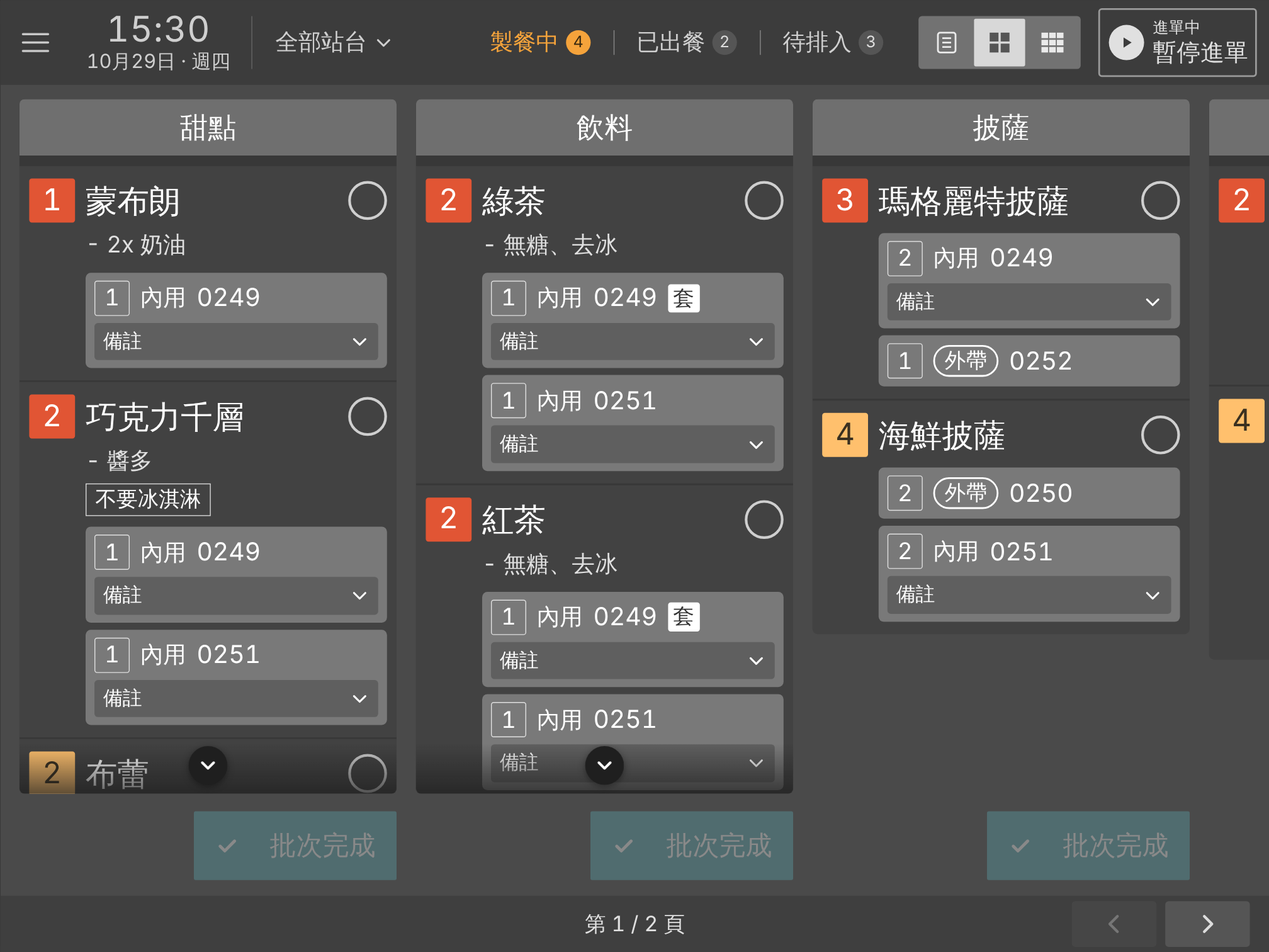
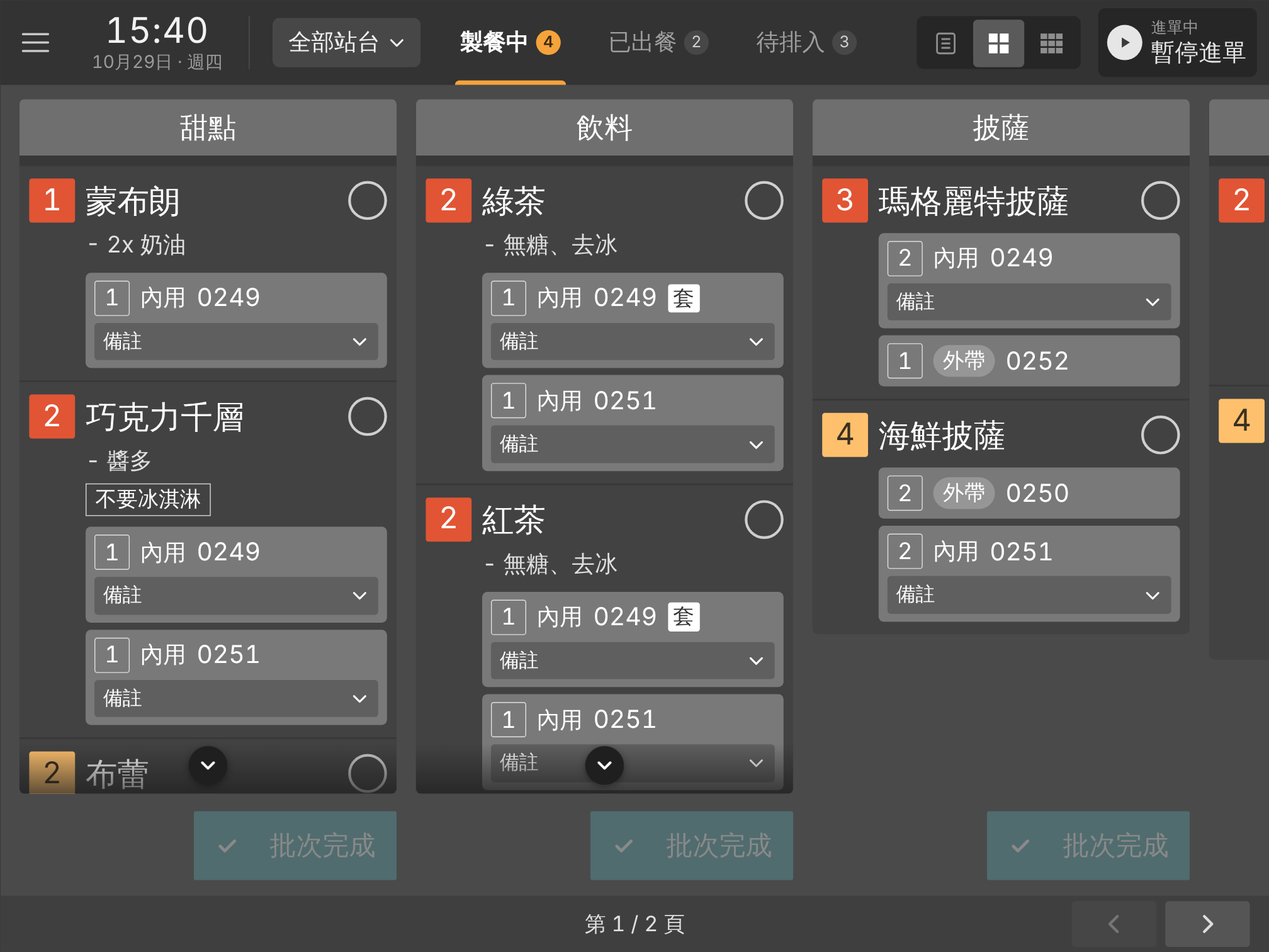
KDS: drop the cancelled-item hint; refresh every KDS screen (case screenshots, case hero photo, work-list cover) from the latest demo
Claude-Session: https://claude.ai/code/session_01NDe3p8GQ2HZ5WF8ct1RAfY

diff --git a/script.js b/script.js
@@ -11,7 +11,7 @@ function updateLanguageControls(){const toggle=document.querySelector('#language
 document.querySelector('#language-toggle')?.addEventListener('click',()=>setPortfolioLanguage(isEnglish()?'zh':'en'));
 const figmaURL='https://www.figma.com/design/S2sh6gtlIJ3JtDM7i3MEiN/portfolio?node-id=1654-18351';
 const repoURL='https://github.com/chi861008/researved-system';
-const visual=(name)=>name==='schedule'?'<div class="work-visual visual-schedule"><div class="arrow-circle" aria-hidden="true">↗</div><div class="schedule-mock"><div class="schedule-top"><strong>Weekly schedule</strong><span>October / 2026　↗</span></div><div class="calendar-week">'+['MON','TUE','WED','THU','FRI','SAT','SUN'].map((d,i)=>'<div class="calendar-day"><b>'+d+'</b>'+(i===0||i===2||i===4?'<span class="calendar-pill">Pilates 10:00</span>':'')+(i===1||i===3?'<span class="calendar-pill orange-pill">Private 14:00</span>':'')+'</div>').join('')+'</div></div></div>':name==='kiosk'?'<div class="work-visual visual-kiosk kiosk-image-cover"><img src="./kiosk-cover.png" alt="KIOSK 自助點餐介面與付款引導的設計畫面拼貼"><div class="arrow-circle" aria-hidden="true">↗</div></div>':'<div class="work-visual visual-kds kds-image-cover"><img src="./kds-cover.png" alt="KDS 個人概念設計封面：深色廚房訂單與分類畫面的介面拼貼"><div class="arrow-circle" aria-hidden="true">↗</div></div>';
+const visual=(name)=>name==='schedule'?'<div class="work-visual visual-schedule"><div class="arrow-circle" aria-hidden="true">↗</div><div class="schedule-mock"><div class="schedule-top"><strong>Weekly schedule</strong><span>October / 2026　↗</span></div><div class="calendar-week">'+['MON','TUE','WED','THU','FRI','SAT','SUN'].map((d,i)=>'<div class="calendar-day"><b>'+d+'</b>'+(i===0||i===2||i===4?'<span class="calendar-pill">Pilates 10:00</span>':'')+(i===1||i===3?'<span class="calendar-pill orange-pill">Private 14:00</span>':'')+'</div>').join('')+'</div></div></div>':name==='kiosk'?'<div class="work-visual visual-kiosk kiosk-image-cover"><img src="./kiosk-cover.png" alt="KIOSK 自助點餐介面與付款引導的設計畫面拼貼"><div class="arrow-circle" aria-hidden="true">↗</div></div>':'<div class="work-visual visual-kds kds-image-cover"><img src="./kds-cover.png?v=2" alt="KDS 個人概念設計封面：深色廚房訂單與分類畫面的介面拼貼"><div class="arrow-circle" aria-hidden="true">↗</div></div>';
 const card=p=>'<a class="work-card" href="#/case/'+p.id+'">'+visual(p.visual)+'<div class="work-info"><div><h3>'+p.title+'</h3><p>'+p.zh+'<br>'+p.type+'</p></div><div class="project-number">'+p.number+' / 03</div></div></a>';
 function home(){return '<section class="identity-hero"><div class="identity-wrap"><h1 class="visually-hidden">Yuan Chi — Product Manager &amp; Product Designer</h1><div class="identity-caption">PORTFOLIO / 2026</div><div class="identity-title"><span>Yuan</span><figure class="identity-photo"><img src="./yuan-chi-expressive-hero.png" alt="Yuan Chi 俏皮的黑白個人照片" fetchpriority="high" loading="eager" decoding="async"><i class="corner c1"></i><i class="corner c2"></i><i class="corner c3"></i><i class="corner c4"></i></figure><span>Chi</span></div><div class="identity-details"><p>Product Manager ×<br>Product Designer</p><p>Research / Strategy / Design<br>From insight to working product</p><p>Based in Taiwan<br><a href="mailto:chi861008@gmail.com">chi861008@gmail.com ↗</a></p></div></div></section><section class="intro-portrait wrap" id="about"><div class="intro-copy"><div class="eyebrow">ABOUT ME</div><h2>Hi<span class="orange">.</span></h2><p>我是產品設計師，正往產品經理發展。擅長把模糊的業務問題拆成可以驗證的假設，再用研究、設計與可運作的原型，幫團隊做出取捨。</p><p>過去曾參與餐飲 POS、自助點餐機、雲端報表及廚房顯示系統等產品。工作之外，我也喜歡從生活中的真實問題發起 Side Project，讓研究、設計與開發不只停留在工作中，也能實際應用於日常生活。</p><a class="intro-link" href="#/about">More about me <span>↗</span></a></div><div class="intro-visual"><img src="./yuan-chi-about-crossleg-slim.svg" alt="Yuan Chi 個人黑白形象照"><div class="orbit-word">DESIGN · RESEARCH · PRODUCT · BUILD ·</div></div></section><section class="section-space wrap" id="work"><div class="section-head selected-head"><div><div class="eyebrow">SELECTED WORK / 2026</div><h2>Works record<span class="orange">.</span></h2></div></div><div class="work-grid identity-works">'+projects.map(card).join('')+'</div></section><section class="dark-band"><div class="wrap"><div class="eyebrow">THE WAY I THINK</div><h2>Fall in love with the problem, not the solution.</h2><a href="mailto:chi861008@gmail.com">Let’s connect ↗</a></div></section>';}
 function aboutSection(){return '<section class="section-space wrap" id="about"><div class="about-mini"><div><div class="eyebrow">02 / About</div><h2>Curious by nature.<br>Builder by choice.</h2></div><div><p>我的背景跨越工業設計、使用者研究與數位產品設計，做過餐飲 POS、自助點餐機與廚房顯示系統。現在我往產品經理發展：定義問題、排定優先順序、用最小成本驗證，必要時用 AI 輔助開發自己把原型做出來。</p><p>我喜歡定義問題、串聯不同線索、提出解法，以及把複雜的邏輯整理得讓人容易理解。</p><div class="skills"><span class="chip">Product Discovery</span><span class="chip">Prioritization</span><span class="chip">UX Research</span><span class="chip">Product Design</span><span class="chip">Prototyping</span><span class="chip">AI-assisted Development</span></div></div></div></section>';}
@@ -107,11 +107,11 @@ function schedulingBody(){
   '<div class="schedule-turn"><span>KEY TAKEAWAY / 核心反思</span><p><strong>從證明自己能做出產品，到學會判斷什麼值得先做。</strong>這次獨立開發讓我理解：做出功能，不等於已找到值得解決的產品問題。未來我會先確認需求的共通性、最需要驗證的假設，以及使用者的轉換成本，再決定投入多少開發資源。</p></div>');
 }
 function kdsBody(){
- return sec("overview","01 / CONTEXT","從工程師 Demo 到可交付的 KDS：先釐清廚房真正需要什麼","\n<div class=\"role-split\"><div><span>TEAM PROJECT / 團隊專案（02–04）</span><strong>我負責研究與 UI 檢視</strong><p>整理歷史研究與客戶回饋、競品分析、LA PASTA 現場訪談；提出 5 項 UI 建議，全數被採納。正式介面由另一位 UX 主責。</p></div><div><span>PERSONAL EXTENSION / 個人延伸（05）</span><strong>我獨立設計的品項視角</strong><p>在專案之外，把「批次製餐」的研究洞察延伸成訂單／品項雙視角與批次規則，並做成可操作的展示。</p></div></div>\n<p>因為有客戶表達購買 KDS 的意願，公司決定將工程師依自身理解開發的初步 Demo 推進為正式產品。原型已可呈現並處理訂單，但仍有<strong>長餐名截斷、跑馬燈閱讀負擔、誤完成後難以找回、油污環境觸控不便</strong>等問題。因此需要先釐清第一階段的功能範圍與真實廚房流程，支持團隊把 Demo 轉成可交付的產品。</p>\n<figure class=\"scenario-figure kds-case-scenario\"><img loading=\"lazy\" src=\"./kds-case-hero.png\" alt=\"KDS 廚房作業情境示意\"><figcaption>廚房使用情境示意。</figcaption></figure>\n")+
+ return sec("overview","01 / CONTEXT","從工程師 Demo 到可交付的 KDS：先釐清廚房真正需要什麼","\n<div class=\"role-split\"><div><span>TEAM PROJECT / 團隊專案（02–04）</span><strong>我負責研究與 UI 檢視</strong><p>整理歷史研究與客戶回饋、競品分析、LA PASTA 現場訪談；提出 5 項 UI 建議，全數被採納。正式介面由另一位 UX 主責。</p></div><div><span>PERSONAL EXTENSION / 個人延伸（05）</span><strong>我獨立設計的品項視角</strong><p>在專案之外，把「批次製餐」的研究洞察延伸成訂單／品項雙視角與批次規則，並做成可操作的展示。</p></div></div>\n<p>因為有客戶表達購買 KDS 的意願，公司決定將工程師依自身理解開發的初步 Demo 推進為正式產品。原型已可呈現並處理訂單，但仍有<strong>長餐名截斷、跑馬燈閱讀負擔、誤完成後難以找回、油污環境觸控不便</strong>等問題。因此需要先釐清第一階段的功能範圍與真實廚房流程，支持團隊把 Demo 轉成可交付的產品。</p>\n<figure class=\"scenario-figure kds-case-scenario\"><img loading=\"lazy\" src=\"./kds-case-hero.png?v=2\" alt=\"KDS 廚房作業情境示意\"><figcaption>廚房使用情境示意。</figcaption></figure>\n")+
 sec("research","02 / DISCOVERY","有限樣本下，如何做出有依據的下一版 KDS 設計決策？","\n<p>為回答這個挑戰，我結合<strong>第一代使用者回饋、歷史研究資料、競品比較與現場觀察</strong>，從不同來源交叉理解製餐工作與功能需求。只有 LA PASTA 一家店願意接受實地訪談，所以現場資料主要用來補充作業脈絡。</p>\n<p class=\"kds-research-method-summary\"><strong>研究來源：</strong>第一代客戶回饋與介面走查、歷史訪談和廚房單、競品比較，以及 LA PASTA 的現場訪查。現場樣本有限，因此以多種資料交叉理解，不將單一店家的作法視為通則。</p>\n<div class=\"kds-competitor-analysis\">\n<h3>競品分析｜Competitive Analysis</h3>\n<p>這次以<strong>自家產品「專加科技第一代 KDS」</strong>為現況基準，對照<strong>Eats365</strong>與<strong>微碧（Weiby）</strong>，比較訂單分組、排序、資訊辨識、異動通知與出餐狀態。研究目的同時是找出缺少的基本功能、比較可行互動方式，協助團隊討論下一版取捨。</p>\n<div class=\"kds-research-turn\"><strong>主要分析結論：</strong>KDS 不只是顯示訂單，而是幫助內場在高壓環境快速完成「分組、排序、辨識」決策，並讓重要異動與出餐狀態及時被發現。</div>\n<div class=\"kds-competitor-findings\">\n<article><span>01 / GROUPING</span><h4>查看視角：以適合工作的單位分組</h4><p>常見依單號或桌號整理訂單；Eats365 另提供商品類別分組與總單視角，讓內場能聚焦同類商品的批次製作。分組方式不是單純換畫面，而是對應不同工作單位。</p></article>\n<article><span>02 / SORTING</span><h4>製作順序：兼顧效率與等待公平</h4><p>排序可能依單號、桌號、下單時間與等待時長切換。Eats365 提供菜單順序；微碧則有取餐時間相關排序與預訂單處理，協助內場判斷合適的製作時機。</p></article>\n<article><span>03 / READABILITY</span><h4>資訊辨識：穩定閱讀比選項多更重要</h4><p>專加第一代在欄位或字級組合不當時，長餐名容易被截斷。Eats365 採相對固定的版型與預設視角，提供另一種設計取捨：減少配置自由度，以維持資訊完整與閱讀舒適。</p></article>\n<article><span>04 / ALERTS & STATUS</span><h4>異動與出餐：讓狀態不只停在廚房</h4><p>Eats365 對退單提供音效，修改訂單後也會標示變更內容，降低內場重新比對負擔。兩家競品皆呈現製餐／出餐的進度管理；微碧還將部分狀態延伸到點餐流程。</p></article>\n</div>\n\n<a class=\"kds-compare-button\" href=\"./kds-function-comparison.webp\" target=\"_blank\" rel=\"noopener noreferrer\" aria-label=\"開啟完整 KDS 競品功能比較圖\">查看完整競品功能比較 <span aria-hidden=\"true\">↗</span></a>\n</div>\n")+
 sec("user-analysis","03 / USER ANALYSIS","廚房如何批次製餐、接收異動並安排出餐順序？","\n<p>以<strong>歷史廚房單及既有需求</strong>建立初步理解，再透過 LA PASTA 的<strong>內、外場兩位受訪者</strong>與一次現場脈絡訪查，釐清資訊如何在真實製餐情境中流動。以下三項 Insight 是結合不同證據來源的研究歸納。</p>\n<div class=\"kds-user-metrics\"><div><strong>歷史資料</strong><span>廚房單與既有需求</span></div><div><strong>2 位</strong><span>LA PASTA 內、外場受訪者</span></div><div><strong>1 次</strong><span>現場脈絡訪查</span></div></div>\n<h3>使用者訪談與現場觀察｜Field Study</h3>\n\n<div class=\"kds-field-site\"><img loading=\"lazy\" src=\"./la-pasta-logo.svg\" alt=\"LA PASTA 餐廳 Logo\"><div><span>FIELD STUDY / 實地研究對象</span><strong>LA PASTA</strong><p>本次實地訪談與觀察對象，涵蓋內、外場作業脈絡。</p></div></div>\n<h3>三個主要洞察｜Key Insights</h3>\n\n<div class=\"kds-user-insights\">\n<article class=\"insight-feature kds-insight-feature\"><div class=\"insight-feature-copy\"><span class=\"insight-feature-kicker\"><em class=\"insight-number\">01</em><span>BATCH PREPARATION / 批次製餐</span></span><h4>內場依相同製作流程批次製餐，而不是逐張訂單處理</h4><p>內場會先確認多筆訂單中的同類商品數量，再集中取料與製作。當冰櫃和烹飪位置有距離，批次備料能減少往返。這表示廚房的工作單位不一定是「整張訂單」，也可能是可共同製作的「一批商品」。</p></div><figure class=\"kds-insight-figure\"><div class=\"kds-mini-flow\"><div><small>訂單 01</small><strong>餐點 A × 2</strong></div><div><small>訂單 02</small><strong>餐點 A × 1</strong></div><span class=\"kds-mini-arrow\">↓</span><div class=\"kds-mini-highlight\"><small>相同製程集中查看</small><strong>餐點 A × 3</strong></div></div><figcaption>製餐分組情境示意｜批次思考方式。</figcaption></figure></article>\n<figure class=\"kds-insight-context voice-paraphrase\"><span>WORKING CONTEXT / 研究紀錄整理</span><p class=\"voice-text\">冰櫃與烹飪位置相隔一段距離，內場會先看同類餐點的總需求量，再一次拿取所需食材。</p></figure>\n<article class=\"insight-feature kds-insight-feature\"><div class=\"insight-feature-copy\"><span class=\"insight-feature-kicker\"><em class=\"insight-number\">02</em><span>INTERRUPTED ATTENTION / 間歇掃視</span></span><h4>內場以間歇掃視接收資訊，重要異動不能只靠畫面更新</h4><p>製餐者主要注意力在備料與烹調，無法持續盯著 KDS。當退單或修改發生時，若需要反覆回頭確認畫面，便會增加錯過異動的風險。手部接觸食材與油污，也使頻繁觸控操作不便。</p></div><figure class=\"kds-insight-figure\"><div class=\"kds-attention-flow\"><div><b>製餐中</b><span>注意力在餐點</span></div><div class=\"kds-attention-alert\"><b>訂單異動</b><span>需要被主動察覺</span></div><div><b>回看螢幕</b><span>調整製餐工作</span></div></div><figcaption>資訊接收節奏示意｜間歇掃視。</figcaption></figure></article>\n<figure class=\"kds-insight-context voice-paraphrase\"><span>WORKING CONTEXT / 客戶回饋整理</span><p class=\"voice-text\">內場無法一直看著螢幕；退單或修改如果能有提醒聲，就比較有機會及時調整製餐。</p></figure>\n<article class=\"insight-feature kds-insight-feature\"><div class=\"insight-feature-copy\"><span class=\"insight-feature-kicker\"><em class=\"insight-number\">03</em><span>EFFICIENCY & FAIRNESS / 效率與等待</span></span><h4>出餐順序同時受到製作效率與顧客等待時間影響</h4><p>同製程商品聚合能提高備餐效率，卻不代表所有相同商品都應排成一批。當來源訂單的進單時間相差很大，只看合計數量會掩蓋先後順序。內場需要兼顧批次製作與辨識哪些訂單已等待較久。</p></div><figure class=\"kds-insight-figure\"><div class=\"kds-time-flow\"><div><small>較早進單</small><strong>12:00</strong><span>餐點 A</span></div><div><small>接續進單</small><strong>12:03</strong><span>餐點 A</span></div><div class=\"kds-time-later\"><small>較晚進單</small><strong>12:18</strong><span>餐點 A</span></div></div><figcaption>進單時間差示意（示例時間）。</figcaption></figure></article>\n</div>\n")+
 sec("opportunity","04 / PRODUCT DECISIONS","團隊專案｜把研究轉成可執行的設計方向","\n<p>本次 MVP 先聚焦「製餐資訊理解、誤操作排除、批次製餐」三項核心需求；團隊根據既有痛點與競品比較，納入資訊可讀性、異動提醒、訂單找回、視角同步與減少觸控等改善方向。研究建議進入產品規劃，並已推進至開發與交付前準備。<strong>正式介面主要由另一位 UX 設計師負責；我提供研究依據、參與功能範圍討論，並提出上述五項 UI 檢視建議。</strong></p>\n\n<h3>從研究洞察到 MVP 交付範圍</h3>\n<p>本次研究將需求歸納為三個工作挑戰：<strong>辨識資訊與避免誤操作、支援批次製餐、讓關鍵異動被注意到</strong>。考量新版第一階段的開發範圍，團隊先收斂為兩項 MVP 交付目標；其餘需求則分層保留，並不代表已決定開發。</p>\n<div class=\"kds-scope-heading\"><div><span>PHASED DELIVERY / 分階段交付</span><h3>巢狀圓呈現分階段交付目標</h3><p>越靠中心越早規劃，<strong>不是功能的重要程度排序</strong>。本次只處理中心 MVP，其餘兩圈是後續可能擴充的方向。</p></div></div>\n<div class=\"kds-scope-layout\"><div class=\"kds-scope-rings\" role=\"img\" aria-label=\"KDS 三層底部相切的巢狀圓：中心第一階段 MVP 為製餐資訊理解與誤操作排除及支援批次製餐；中圈後續初階管理為依門店流程設定製餐規則；外圈未來方向為網路環境異常的應對。\"><div class=\"kds-scope-outer\"><span>03 / FUTURE</span><strong>網路異常應對</strong></div><div class=\"kds-scope-middle\"><span>02 / LATER</span><strong>門店製餐規則</strong></div><div class=\"kds-scope-center\"><span>01 / THIS MVP</span><strong>製餐資訊理解<br>與誤操作排除</strong><strong>支援批次製餐</strong></div></div><div class=\"kds-scope-legend\"><div><span class=\"kds-scope-dot kds-scope-dot--now\"></span><div><small>01 / 本次新版第一階段 MVP</small><strong>製餐核心任務</strong><p>先處理資訊辨識、誤操作風險與批次製作的基本需求。此處表示<strong>規劃範圍</strong>，不是已開發上線。</p></div></div><div><span class=\"kds-scope-dot kds-scope-dot--later\"></span><div><small>02 / 後續初階管理</small><strong>可依門店流程設定製餐規則</strong><p>第二階段可探索依品項設定單批製作數量上限（示例：3 份），以及依訂單時間差決定是否切分批次（示例：10 分鐘）。這些數值為設計舉例，並非已確認的預設規則或本次 MVP 交付。</p></div></div><div><span class=\"kds-scope-dot kds-scope-dot--future\"></span><div><small>03 / 未來系統韌性</small><strong>網路環境異常的應對</strong><p>屬長期延伸方向，並非目前 MVP 範圍。</p></div></div></div></div>\n<p class=\"kds-decision-bridge\">研究指出資訊辨識、誤操作找回與批次製餐是優先工作需求。以下直接呈現我在 UI 檢視中提出、並獲團隊採納的五項建議；各項設計以研究發現為依據，並非已量測的上線成效。</p>\n<div class=\"kds-proactive-story\"><span>PROACTIVE DESIGN REVIEW / 主動介入設計檢視</span><h3>當 UI 設計偏離使用情境，我主動提出修正</h3><p>專案進行期間，我發現初版設計的資訊層級與操作安排，部分未能回應研究中廚房需要快速掃視、辨識狀態的情境。因此我主動檢視畫面，提出五項具體改善建議，並與負責正式介面的 UX 設計師討論修正。</p><p><strong>結果：</strong>五項建議均獲團隊採納，由正式介面設計師調整新版設計稿；此為設計修正成果，尚非上線後的使用成效。</p></div>\n\n<div class=\"kds-map\"><div class=\"kds-map-row\"><figure class=\"kds-map-fig\"><span class=\"kds-compare-label\">BEFORE / 舊版｜五個問題點</span><a class=\"kds-map-img\" href=\"./kds-ui-before.png\" target=\"_blank\" rel=\"noopener noreferrer\"><img loading=\"lazy\" src=\"./kds-ui-before.png\" alt=\"KDS 舊版白底介面，標出五個問題點\"><i class=\"kds-box\" data-n=\"1\" style=\"left:18.83%;top:1.38%;width:31.57%;height:5.66%\"><b>1</b></i><i class=\"kds-box kds-box--side\" data-n=\"2\" style=\"left:23.82%;top:22.95%;width:8.32%;height:5.20%\"><b>2</b></i><i class=\"kds-box\" data-n=\"2\" style=\"left:1.15%;top:95.79%;width:37.89%;height:3.83%\"></i><i class=\"kds-box\" data-n=\"3\" style=\"left:34.79%;top:29.30%;width:30.31%;height:11.63%\"><b>3</b></i><i class=\"kds-box\" data-n=\"3\" style=\"left:2.30%;top:51.72%;width:29.39%;height:5.66%\"></i><i class=\"kds-box\" data-n=\"4\" style=\"left:1.26%;top:13.93%;width:32.49%;height:6.12%\"><b>4</b></i><i class=\"kds-box\" data-n=\"4\" style=\"left:0.00%;top:8.57%;width:100.00%;height:4.59%\"></i><i class=\"kds-box\" data-n=\"5\" style=\"left:2.18%;top:34.81%;width:30.08%;height:16.22%\"><b>5</b></i></a></figure><ol class=\"kds-map-list\"><li data-n=\"1\"><b aria-hidden=\"true\">1</b><div><span>01 / SPACE ALLOCATION</span><strong>縮減低頻站點切換的空間</strong><p>站點通常不會頻繁更動，卻占據較大的頂部區域；建議將空間留給製餐核心資訊。</p></div></li><li data-n=\"2\"><b aria-hidden=\"true\">2</b><div><span>02 / WAITING TIME</span><strong>簡化等候時間的色彩</strong><p>等待時間可考慮先以兩種顏色區分，減少判讀負擔。</p></div></li><li data-n=\"3\"><b aria-hidden=\"true\">3</b><div><span>03 / VISUAL PRIORITY</span><strong>降低紅、橘警示色的使用頻率</strong><p>畫線、已取消、移除顯示等多處都使用警示色，容易分散視覺重心。</p></div></li><li data-n=\"4\"><b aria-hidden=\"true\">4</b><div><span>04 / INFORMATION DENSITY</span><strong>檢視非必要與重複資訊</strong><p>重新評估待排入數量、製餐區數量，以及已有文字說明的圖示，是否都需要在主畫面呈現。</p></div></li><li data-n=\"5\"><b aria-hidden=\"true\">5</b><div><span>05 / NOTE USABILITY</span><strong>備註以易用性優先</strong><p>備註使用率較低，但有使用需求時仍需易於辨識與操作；不應只為視覺美觀犧牲可用性。</p></div></li></ol></div><figure class=\"kds-map-fig kds-map-after\"><span class=\"kds-compare-label\">AFTER / 新版</span><a class=\"kds-map-img\" href=\"./kds-ui-after.png\" target=\"_blank\" rel=\"noopener noreferrer\"><img loading=\"lazy\" src=\"./kds-ui-after.png\" alt=\"KDS 新版深色介面\"></a><figcaption>新版畫面｜點擊圖片可放大檢視。</figcaption></figure></div>\n")+
-sec("solutions","05 / INDEPENDENT EXPLORATION","個人延伸｜在 MVP 之後探索更符合製餐節奏的品項視角","\n<p>在正式專案之外，我進一步思考：<strong>外場以訂單追蹤出餐，內場卻可能以商品與製作流程安排工作。</strong>如果只是將所有相同商品無限聚合，反而會忽略不同顧客的下單時間，以及廚房一次能做的數量。</p>\n<div class=\"kds-design-overview\"><span>DESIGN OUTCOME / 完整介面圖</span><h3>在訂單與品項之間切換製餐視角</h3><p>以下是我獨立完成的 KDS 介面設計。先以完整畫面呈現兩種工作視角，後續再說明各項互動；圖片皆可點擊放大查看細節。</p></div>\n<div class=\"kds-design-gallery\"><figure class=\"kds-shot\"><div class=\"kds-design-screen-title\"><span>01 / ORDER VIEW</span><strong>訂單視角</strong></div><a href=\"./kds-design-order-view.png?v=2\" target=\"_blank\" rel=\"noopener noreferrer\"><img loading=\"lazy\" src=\"./kds-design-order-view.png?v=2\" alt=\"KDS 訂單視角完整介面，按訂單呈現餐點及其狀態\"></a><figcaption>依訂單追蹤各張單的餐點與完成狀態，可辨識等待時間、備註與單品狀態。</figcaption></figure><figure class=\"kds-shot\"><div class=\"kds-design-screen-title\"><span>02 / ITEM VIEW</span><strong>品項視角</strong></div><a href=\"./kds-design-item-view.png?v=2\" target=\"_blank\" rel=\"noopener noreferrer\"><img loading=\"lazy\" src=\"./kds-design-item-view.png?v=2\" alt=\"KDS 品項視角完整介面，按商品分類聚合並保留來源訂單資訊\"></a><figcaption>跨訂單彙整同類品項，以品項總量安排批次製餐，同時保留各份商品對應的原始訂單。</figcaption></figure></div><div class=\"demo-jump-row\"><a class=\"demo-jump\" href=\"#try-demo\" data-demo-go=\"order\">操作訂單視角 <span aria-hidden=\"true\">↓</span></a><a class=\"demo-jump\" href=\"#try-demo\" data-demo-go=\"prod\">操作品項視角 <span aria-hidden=\"true\">↓</span></a></div>\n<div class=\"kds-design-feature\"><div class=\"kds-design-feature-copy\"><span>DESIGN DETAIL 01 / INFORMATION AWARENESS</span><h3>重要異動留下可辨識的狀態痕跡</h3><p>內場通常間歇查看螢幕，因此以畫面上的異動狀態提示輔助辨識，並提出聲音通知方向。</p></div><figure class=\"kds-shot\"><a href=\"./kds-design-alert.png?v=2\" target=\"_blank\" rel=\"noopener noreferrer\"><img loading=\"lazy\" src=\"./kds-design-alert.png?v=2\" alt=\"KDS 異動狀態與操作提示設計圖\"></a><figcaption>異動提示介面。</figcaption></figure></div>\n<div class=\"kds-design-feature\"><div class=\"kds-design-feature-copy\"><span>DESIGN DETAIL 02 / ERROR RECOVERY</span><h3>誤觸後可找回餐點，重新銜接製餐任務</h3><p>高壓製餐環境可能發生誤選與誤完成。操作設計呈現餐點處理中的狀態，以及從已出餐紀錄找回餐點的流程，降低重新定位任務的負擔。</p><a class=\"demo-jump\" href=\"#try-demo\" data-demo-go=\"done\">在互動展示中試找回 <span aria-hidden=\"true\">↓</span></a></div><div class=\"kds-design-recovery-grid\"><figure class=\"kds-shot\"><a href=\"./kds-design-recovery-select.png?v=2\" target=\"_blank\" rel=\"noopener noreferrer\"><img loading=\"lazy\" src=\"./kds-design-recovery-select.png?v=2\" alt=\"KDS 退回重做的品項以藍色標示回到製餐中\"></a><figcaption>退回重做｜品項以藍色標示回到製餐中，提醒廚師這是剛找回的任務。</figcaption></figure><figure class=\"kds-shot\"><a href=\"./kds-design-recovery-history.png?v=2\" target=\"_blank\" rel=\"noopener noreferrer\"><img loading=\"lazy\" src=\"./kds-design-recovery-history.png?v=2\" alt=\"KDS 已出餐紀錄與找回操作設計圖\"></a><figcaption>找回任務｜從已完成狀態重新銜接製餐。</figcaption></figure></div></div>\n<div class=\"kds-design-phase-two\"><span>PHASE 02 / 後續規劃，非本次 MVP</span><h3>依產能與進單時間決定製作批次</h3><p>後續可探索針對不同品項設定單批製作上限，以及依訂單時間差切分批次。以下以每批最多 3 份、相隔 10 分鐘切批為介面範例。</p><div class=\"validation-plan\"><span>HOW I WOULD VALIDATE IT / 低成本驗證方法</span><ol><li>取一家店一個尖峰時段的歷史訂單。</li><li>用三種規則模擬出餐：逐單製作、同品項無限聚合、3 份／10 分鐘切批。</li><li>比較「最久等待時間」與「需要製作的批次數」，看切批規則是否在不明顯增加等待的前提下減少批次。</li><li>把模擬結果拿給內場人員看，確認數值是否符合實際的鍋具容量與節奏。</li></ol></div><figure class=\"kds-shot\"><a href=\"./kds-design-phase-two.png\" target=\"_blank\" rel=\"noopener noreferrer\"><img loading=\"lazy\" src=\"./kds-design-phase-two.png\" alt=\"KDS 第二階段依時間與品項上限拆分批次的設計示例\"></a><figcaption>第二階段設計示例｜以可設定的容量與時間限制輔助決定單次製餐範圍。</figcaption></figure></div>\n\n")+
+sec("solutions","05 / INDEPENDENT EXPLORATION","個人延伸｜在 MVP 之後探索更符合製餐節奏的品項視角","\n<p>在正式專案之外，我進一步思考：<strong>外場以訂單追蹤出餐，內場卻可能以商品與製作流程安排工作。</strong>如果只是將所有相同商品無限聚合，反而會忽略不同顧客的下單時間，以及廚房一次能做的數量。</p>\n<div class=\"kds-design-overview\"><span>DESIGN OUTCOME / 完整介面圖</span><h3>在訂單與品項之間切換製餐視角</h3><p>以下是我獨立完成的 KDS 介面設計。先以完整畫面呈現兩種工作視角，後續再說明各項互動；圖片皆可點擊放大查看細節。</p></div>\n<div class=\"kds-design-gallery\"><figure class=\"kds-shot\"><div class=\"kds-design-screen-title\"><span>01 / ORDER VIEW</span><strong>訂單視角</strong></div><a href=\"./kds-design-order-view.png?v=3\" target=\"_blank\" rel=\"noopener noreferrer\"><img loading=\"lazy\" src=\"./kds-design-order-view.png?v=3\" alt=\"KDS 訂單視角完整介面，按訂單呈現餐點及其狀態\"></a><figcaption>依訂單追蹤各張單的餐點與完成狀態，可辨識等待時間、備註與單品狀態。</figcaption></figure><figure class=\"kds-shot\"><div class=\"kds-design-screen-title\"><span>02 / ITEM VIEW</span><strong>品項視角</strong></div><a href=\"./kds-design-item-view.png?v=3\" target=\"_blank\" rel=\"noopener noreferrer\"><img loading=\"lazy\" src=\"./kds-design-item-view.png?v=3\" alt=\"KDS 品項視角完整介面，按商品分類聚合並保留來源訂單資訊\"></a><figcaption>跨訂單彙整同類品項，以品項總量安排批次製餐，同時保留各份商品對應的原始訂單。</figcaption></figure></div><div class=\"demo-jump-row\"><a class=\"demo-jump\" href=\"#try-demo\" data-demo-go=\"order\">操作訂單視角 <span aria-hidden=\"true\">↓</span></a><a class=\"demo-jump\" href=\"#try-demo\" data-demo-go=\"prod\">操作品項視角 <span aria-hidden=\"true\">↓</span></a></div>\n<div class=\"kds-design-feature\"><div class=\"kds-design-feature-copy\"><span>DESIGN DETAIL 01 / INFORMATION AWARENESS</span><h3>重要異動留下可辨識的狀態痕跡</h3><p>內場通常間歇查看螢幕，因此以畫面上的異動狀態提示輔助辨識，並提出聲音通知方向。</p></div><figure class=\"kds-shot\"><a href=\"./kds-design-alert.png?v=3\" target=\"_blank\" rel=\"noopener noreferrer\"><img loading=\"lazy\" src=\"./kds-design-alert.png?v=3\" alt=\"KDS 異動狀態與操作提示設計圖\"></a><figcaption>異動提示介面。</figcaption></figure></div>\n<div class=\"kds-design-feature\"><div class=\"kds-design-feature-copy\"><span>DESIGN DETAIL 02 / ERROR RECOVERY</span><h3>誤觸後可找回餐點，重新銜接製餐任務</h3><p>高壓製餐環境可能發生誤選與誤完成。操作設計呈現餐點處理中的狀態，以及從已出餐紀錄找回餐點的流程，降低重新定位任務的負擔。</p><a class=\"demo-jump\" href=\"#try-demo\" data-demo-go=\"done\">在互動展示中試找回 <span aria-hidden=\"true\">↓</span></a></div><div class=\"kds-design-recovery-grid\"><figure class=\"kds-shot\"><a href=\"./kds-design-recovery-select.png?v=3\" target=\"_blank\" rel=\"noopener noreferrer\"><img loading=\"lazy\" src=\"./kds-design-recovery-select.png?v=3\" alt=\"KDS 退回重做的品項以藍色標示回到製餐中\"></a><figcaption>退回重做｜品項以藍色標示回到製餐中，提醒廚師這是剛找回的任務。</figcaption></figure><figure class=\"kds-shot\"><a href=\"./kds-design-recovery-history.png?v=3\" target=\"_blank\" rel=\"noopener noreferrer\"><img loading=\"lazy\" src=\"./kds-design-recovery-history.png?v=3\" alt=\"KDS 已出餐紀錄與找回操作設計圖\"></a><figcaption>找回任務｜從已完成狀態重新銜接製餐。</figcaption></figure></div></div>\n<div class=\"kds-design-phase-two\"><span>PHASE 02 / 後續規劃，非本次 MVP</span><h3>依產能與進單時間決定製作批次</h3><p>後續可探索針對不同品項設定單批製作上限，以及依訂單時間差切分批次。以下以每批最多 3 份、相隔 10 分鐘切批為介面範例。</p><div class=\"validation-plan\"><span>HOW I WOULD VALIDATE IT / 低成本驗證方法</span><ol><li>取一家店一個尖峰時段的歷史訂單。</li><li>用三種規則模擬出餐：逐單製作、同品項無限聚合、3 份／10 分鐘切批。</li><li>比較「最久等待時間」與「需要製作的批次數」，看切批規則是否在不明顯增加等待的前提下減少批次。</li><li>把模擬結果拿給內場人員看，確認數值是否符合實際的鍋具容量與節奏。</li></ol></div><figure class=\"kds-shot\"><a href=\"./kds-design-phase-two.png\" target=\"_blank\" rel=\"noopener noreferrer\"><img loading=\"lazy\" src=\"./kds-design-phase-two.png\" alt=\"KDS 第二階段依時間與品項上限拆分批次的設計示例\"></a><figcaption>第二階段設計示例｜以可設定的容量與時間限制輔助決定單次製餐範圍。</figcaption></figure></div>\n\n")+
 sec("reflection","06 / OUTCOME & REFLECTION","從市場基本功能，到理解製餐現場的限制","\n<div class=\"kiosk-live-demo kds-live-demo\" id=\"try-demo\"><div class=\"kiosk-live-copy\"><span>TRY THE PROTOTYPE / 互動展示</span><h3>直接操作廚房出餐看板</h3><p>以個人補充設計的 Figma 畫面重建的可操作展示：依訂單、依分類、依品項三種檢視，點品項打勾、按「批次完成」送出已勾選的品項，整單完成自動移到已出餐並可回復，已出餐退回重做，預定單自動排入，以及等待時間顏色標註與設定。訂單為模擬資料，進單中時會定時模擬新訂單；部分互動細節為展示需要補充。</p><a href=\"./kds-demo/index.html\" target=\"_blank\" rel=\"noopener\">在新視窗開啟互動展示 ↗</a><small>不連接真實系統 · 點品項打勾，按「批次完成」送出 · 建議以桌機或平板觀看</small></div><div class=\"kiosk-live-frame kds-live-frame\"><iframe src=\"./kds-demo/index.html\" title=\"廚房出餐看板（KDS）互動展示\" loading=\"lazy\"></iframe></div></div><div class=\"kds-evidence-columns\"><div><h3>正式專案目前能說的成果</h3><ul><li>競品、歷史研究與現場訪談共同支援新版 MVP 的功能取捨，產品已推進至準備交付顧客的階段。</li><li>提出五項資訊層級與操作相關的 UI 建議，獲團隊採納並調整設計稿。</li><li>辨識 LA PASTA 內外場協作與產能／時機限制，作為後續設計參考。</li></ul></div><div><h3>仍需驗證的部分</h3><ul><li>下一版功能是否真能降低誤銷或加速辨識。</li><li>不同店態是否需要相同的視角切換與控菜機制。</li><li>個人提出的 10 分鐘分批、單商品產能與批次完成是否適用（驗證方法見 05）。</li></ul></div></div>\n<p>這次讓我理解，競品分析能幫團隊建立市場基本面，但無法單獨解釋使用者為什麼需要某個功能。只有將它與歷史反饋及現場工作邏輯結合，設計才不會停留在功能清單。</p>\n<p>我在正式專案裡學會透過研究與設計師討論資訊層級；在個人延伸中，練習將<strong>訂單與商品視角、製餐產能、時間公平性</strong>整合成可操作的介面概念。未來若有更多店態與驗證機會，才能再確認哪些規則值得產品化。</p>\n<div class=\"kds-reflection-bottom\"><strong>NEXT QUESTION ↗</strong><p>當廚房和外場的工作節奏不同時，哪些步驟適合自動化，哪些決策仍應保留給現場人員？</p></div>\n");
 }
 const bodyMap={kiosk:kioskBody,scheduling:schedulingBody,kds:kdsBody};

diff --git a/english.js b/english.js
@@ -98,7 +98,7 @@ const schedulingInsight=(num,label,title,copy,kind,caption,en=false)=>'<article 
  section('overview','01','CONTEXT','From an engineering demo to a deliverable KDS: first understand what kitchens need',
   '<div class="role-split"><div><span>TEAM PROJECT (02–04)</span><strong>I owned research and UI review</strong><p>Synthesized historical research and customer feedback, analyzed competitors, and interviewed staff at LA PASTA; all five of my UI recommendations were adopted. Another UX designer led the production UI.</p></div><div><span>PERSONAL EXTENSION (05)</span><strong>My independent item-view concept</strong><p>Outside the project, I extended the batch-preparation insight into order/item views and batching rules, and built an interactive demo.</p></div></div>'+
   '<p>A customer expressed interest in buying a kitchen display system, so the company decided to turn an early demo—built by an engineer based on their own understanding—into a formal product. The prototype could show and process orders, but <strong>long dish names were truncated, scrolling text was hard to read, accidentally completed orders were difficult to recover, and oily hands made touch interaction cumbersome.</strong> The team first needed to clarify the initial scope and real kitchen workflows to turn the demo into a deliverable product.</p>'+
-  '<figure class="scenario-figure kds-case-scenario"><img loading="lazy" src="./kds-case-hero.png" alt="Illustration of a cook using a kitchen display system"><figcaption>Kitchen use scenario.</figcaption></figure>')+
+  '<figure class="scenario-figure kds-case-scenario"><img loading="lazy" src="./kds-case-hero.png?v=2" alt="Illustration of a cook using a kitchen display system"><figcaption>Kitchen use scenario.</figcaption></figure>')+
  section('research','02','DISCOVERY','How could we make evidence-based KDS decisions with a limited sample?',
   '<p>I triangulated <strong>feedback on the first-generation system, historical research, competitor comparisons, and contextual observation</strong> to understand preparation work and feature needs. LA PASTA was the only restaurant available for on-site research, so field data mainly adds working context.</p>'+
   '<p class="kds-research-method-summary"><strong>Evidence sources:</strong> first-generation feedback and UX audit, historical interviews and kitchen tickets, competitor analysis, and the LA PASTA field visit. This limited field sample provides context rather than a universal workflow.</p>'+
@@ -132,9 +132,9 @@ const schedulingInsight=(num,label,title,copy,kind,caption,en=false)=>'<article 
  section('solutions','05','INDEPENDENT EXPLORATION','Personal extension | Beyond the MVP: an item view that matches preparation rhythm',
   '<p>Outside the formal company scope, I examined a distinction: <strong>front-of-house teams track completed orders, while cooks may work by item and preparation process.</strong> Aggregating every identical item without limits, however, can hide order timing and exceed what the kitchen can make in one batch.</p>'+
   '<div class="kds-design-overview"><span>DESIGN OUTCOME / FULL SCREENS</span><h3>Switch between order and item views</h3><p>These are my independent interface explorations. Full screens appear first, followed by interaction details. Select an image to enlarge it.</p></div>'+
-  '<div class="kds-design-gallery"><figure class="kds-shot"><div class="kds-design-screen-title"><span>01 / ORDER VIEW</span><strong>Order view</strong></div><a href="./kds-design-order-view.png?v=2" target="_blank" rel="noopener noreferrer"><img loading="lazy" src="./kds-design-order-view.png?v=2" alt="Full KDS order-view design"></a><figcaption>Track dishes and completion by order, including elapsed time, notes, and item status.</figcaption></figure><figure class="kds-shot"><div class="kds-design-screen-title"><span>02 / ITEM VIEW</span><strong>Item view</strong></div><a href="./kds-design-item-view.png?v=2" target="_blank" rel="noopener noreferrer"><img loading="lazy" src="./kds-design-item-view.png?v=2" alt="Full KDS item-view design"></a><figcaption>Aggregate similar items across orders for batch preparation while preserving the original order reference.</figcaption></figure></div><div class="demo-jump-row"><a class="demo-jump" href="#try-demo" data-demo-go="order">Try the order view <span aria-hidden="true">↓</span></a><a class="demo-jump" href="#try-demo" data-demo-go="prod">Try the item view <span aria-hidden="true">↓</span></a></div>'+
-  '<div class="kds-design-feature"><div class="kds-design-feature-copy"><span>DESIGN DETAIL 01 / INFORMATION AWARENESS</span><h3>Keep a visible trace of important changes</h3><p>Cooks look at screens intermittently. The design uses visible change states and proposes audible notifications.</p></div><figure class="kds-shot"><a href="./kds-design-alert.png?v=2" target="_blank" rel="noopener noreferrer"><img loading="lazy" src="./kds-design-alert.png?v=2" alt="KDS change-status design"></a><figcaption>Change notification concept.</figcaption></figure></div>'+
-  '<div class="kds-design-feature"><div class="kds-design-feature-copy"><span>DESIGN DETAIL 02 / ERROR RECOVERY</span><h3>Recover accidentally completed items and resume preparation</h3><p>Under pressure, items can be selected or completed by mistake. The concept shows item-selection states and a flow to restore dishes from completed-order history, reducing the work of locating the task again.</p><a class="demo-jump" href="#try-demo" data-demo-go="done">Try recovery in the live demo <span aria-hidden="true">↓</span></a></div><div class="kds-design-recovery-grid"><figure class="kds-shot"><a href="./kds-design-recovery-select.png?v=2" target="_blank" rel="noopener noreferrer"><img loading="lazy" src="./kds-design-recovery-select.png?v=2" alt="KDS item sent back for a remake, highlighted in blue"></a><figcaption>Sent back for a remake: the item returns to the board in blue so cooks know it was just recovered.</figcaption></figure><figure class="kds-shot"><a href="./kds-design-recovery-history.png?v=2" target="_blank" rel="noopener noreferrer"><img loading="lazy" src="./kds-design-recovery-history.png?v=2" alt="KDS order history recovery design"></a><figcaption>Recover a task from completed-item history.</figcaption></figure></div></div>'+
+  '<div class="kds-design-gallery"><figure class="kds-shot"><div class="kds-design-screen-title"><span>01 / ORDER VIEW</span><strong>Order view</strong></div><a href="./kds-design-order-view.png?v=3" target="_blank" rel="noopener noreferrer"><img loading="lazy" src="./kds-design-order-view.png?v=3" alt="Full KDS order-view design"></a><figcaption>Track dishes and completion by order, including elapsed time, notes, and item status.</figcaption></figure><figure class="kds-shot"><div class="kds-design-screen-title"><span>02 / ITEM VIEW</span><strong>Item view</strong></div><a href="./kds-design-item-view.png?v=3" target="_blank" rel="noopener noreferrer"><img loading="lazy" src="./kds-design-item-view.png?v=3" alt="Full KDS item-view design"></a><figcaption>Aggregate similar items across orders for batch preparation while preserving the original order reference.</figcaption></figure></div><div class="demo-jump-row"><a class="demo-jump" href="#try-demo" data-demo-go="order">Try the order view <span aria-hidden="true">↓</span></a><a class="demo-jump" href="#try-demo" data-demo-go="prod">Try the item view <span aria-hidden="true">↓</span></a></div>'+
+  '<div class="kds-design-feature"><div class="kds-design-feature-copy"><span>DESIGN DETAIL 01 / INFORMATION AWARENESS</span><h3>Keep a visible trace of important changes</h3><p>Cooks look at screens intermittently. The design uses visible change states and proposes audible notifications.</p></div><figure class="kds-shot"><a href="./kds-design-alert.png?v=3" target="_blank" rel="noopener noreferrer"><img loading="lazy" src="./kds-design-alert.png?v=3" alt="KDS change-status design"></a><figcaption>Change notification concept.</figcaption></figure></div>'+
+  '<div class="kds-design-feature"><div class="kds-design-feature-copy"><span>DESIGN DETAIL 02 / ERROR RECOVERY</span><h3>Recover accidentally completed items and resume preparation</h3><p>Under pressure, items can be selected or completed by mistake. The concept shows item-selection states and a flow to restore dishes from completed-order history, reducing the work of locating the task again.</p><a class="demo-jump" href="#try-demo" data-demo-go="done">Try recovery in the live demo <span aria-hidden="true">↓</span></a></div><div class="kds-design-recovery-grid"><figure class="kds-shot"><a href="./kds-design-recovery-select.png?v=3" target="_blank" rel="noopener noreferrer"><img loading="lazy" src="./kds-design-recovery-select.png?v=3" alt="KDS item sent back for a remake, highlighted in blue"></a><figcaption>Sent back for a remake: the item returns to the board in blue so cooks know it was just recovered.</figcaption></figure><figure class="kds-shot"><a href="./kds-design-recovery-history.png?v=3" target="_blank" rel="noopener noreferrer"><img loading="lazy" src="./kds-design-recovery-history.png?v=3" alt="KDS order history recovery design"></a><figcaption>Recover a task from completed-item history.</figcaption></figure></div></div>'+
   '<div class="kds-design-phase-two"><span>PHASE 02 / FUTURE EXPLORATION, NOT THIS MVP</span><h3>Set preparation batches using capacity and order times</h3><p>Future designs could limit the quantity per batch for each item and split batches when order times are too far apart. The concept uses a maximum of three portions and a ten-minute gap as examples.</p><div class="validation-plan"><span>HOW I WOULD VALIDATE IT / LOW-COST TEST</span><ol><li>Take one store’s historical orders from a single peak period.</li><li>Simulate service under three rules: order by order, unlimited aggregation, and 3 portions / 10-minute splits.</li><li>Compare the longest wait and the number of batches—does splitting reduce batches without noticeably increasing waits?</li><li>Review the simulation with kitchen staff to check the values against real pan capacity and rhythm.</li></ol></div><figure class="kds-shot"><a href="./kds-design-phase-two.png" target="_blank" rel="noopener noreferrer"><img loading="lazy" src="./kds-design-phase-two.png" alt="KDS phase-two capacity and time batching concept"></a><figcaption>Concept only: configurable batch capacity and time constraints.</figcaption></figure></div>')+
  section('reflection','06','OUTCOME & REFLECTION','From market-baseline features to understanding kitchen constraints',
   '<div class="kiosk-live-demo kds-live-demo" id="try-demo"><div class="kiosk-live-copy"><span>TRY THE PROTOTYPE / INTERACTIVE DEMO</span><h3>Operate the kitchen display directly</h3><p>A working demo rebuilt from my independent Figma explorations: order, category, and item views; checking items off and sending the checked ones with Batch complete, with fully completed orders moving to served automatically; undoing a completed order; sending served items back for a remake; scheduled orders that move into production automatically; and wait-time color coding with its settings. Orders are simulated, and new ones arrive periodically while intake is on. Some interaction details were added for the demo.</p><a href="./kds-demo/index.html" target="_blank" rel="noopener">Open interactive demo in a new tab ↗</a><small>Interface in Traditional Chinese · Not connected to a live system · Tap items to check them off, then send them with Batch complete</small></div><div class="kiosk-live-frame kds-live-frame"><iframe src="./kds-demo/index.html" title="Kitchen display system interactive demo" loading="lazy"></iframe></div></div>'+

diff --git a/kds-demo/index.html b/kds-demo/index.html
@@ -342,7 +342,7 @@ function itemRow(o,it){
   const extra=`${it.mods.length?`<span class="mods">- ${it.mods.map(esc).join("、")}</span>`:""}${it.tag?`<span class="tag">${esc(it.tag)}</span>`:""}`;
   if(S.tab==="done") return `<div class="it">${body}<button class="undo" data-a="undo:${o.id}:${it.id}" aria-label="退回重做">${I.undo}</button>${extra}</div>`;
   if(S.tab==="sched") return `<div class="it" style="cursor:default">${body}<span></span>${extra}</div>`;
-  if(it.state==="void") return `<div class="it void">${body}<button class="trash" data-a="ack:${o.id}:${it.id}" aria-label="確認刪除">${I.trash}</button>${extra}<span class="voidnote">前台已取消，點垃圾桶確認</span></div>`;
+  if(it.state==="void") return `<div class="it void">${body}<button class="trash" data-a="ack:${o.id}:${it.id}" aria-label="確認刪除">${I.trash}</button>${extra}</div>`;
   return `<div class="it ${it.state==="todo"?(S.restored.has(o.id+":"+it.id)&&S.tab==="active"?"restored":""):it.state}" data-a="row:${o.id}:${it.id}">${body}<button class="dot" data-a="tick:${o.id}:${it.id}" aria-label="完成">${I.check}</button>${extra}</div>`;
 }
 function vOrders(){

diff --git a/index.html b/index.html
@@ -12,7 +12,7 @@
   <link href="https://fonts.googleapis.com/css2?family=DM+Sans:wght@400;500;600;700&family=Noto+Sans+TC:wght@400;500;600;700;800&display=swap" rel="stylesheet">
   <link rel="preload" as="image" href="./yuan-chi-expressive-hero.png" fetchpriority="high" />
   <link rel="preload" as="image" href="./yuan-chi-hero-flip-back.png" />
-  <link rel="stylesheet" href="./style.css?v=20261029zk" />
+  <link rel="stylesheet" href="./style.css?v=20261029zl" />
 </head>
 <body>
   <header class="nav">
@@ -29,7 +29,7 @@
     <div><strong>Yuan Chi Chang</strong><span>UX × Product Thinking × Building</span></div>
     <div class="footer-right"><span>Made with curiosity, 2026.</span><a href="#/">Back to top ↑</a></div>
   </footer>
-  <script src="./english.js?v=20261029zk"></script>
-  <script src="./script.js?v=20261029zk"></script>
+  <script src="./english.js?v=20261029zl"></script>
+  <script src="./script.js?v=20261029zl"></script>
 </body>
 </html>
